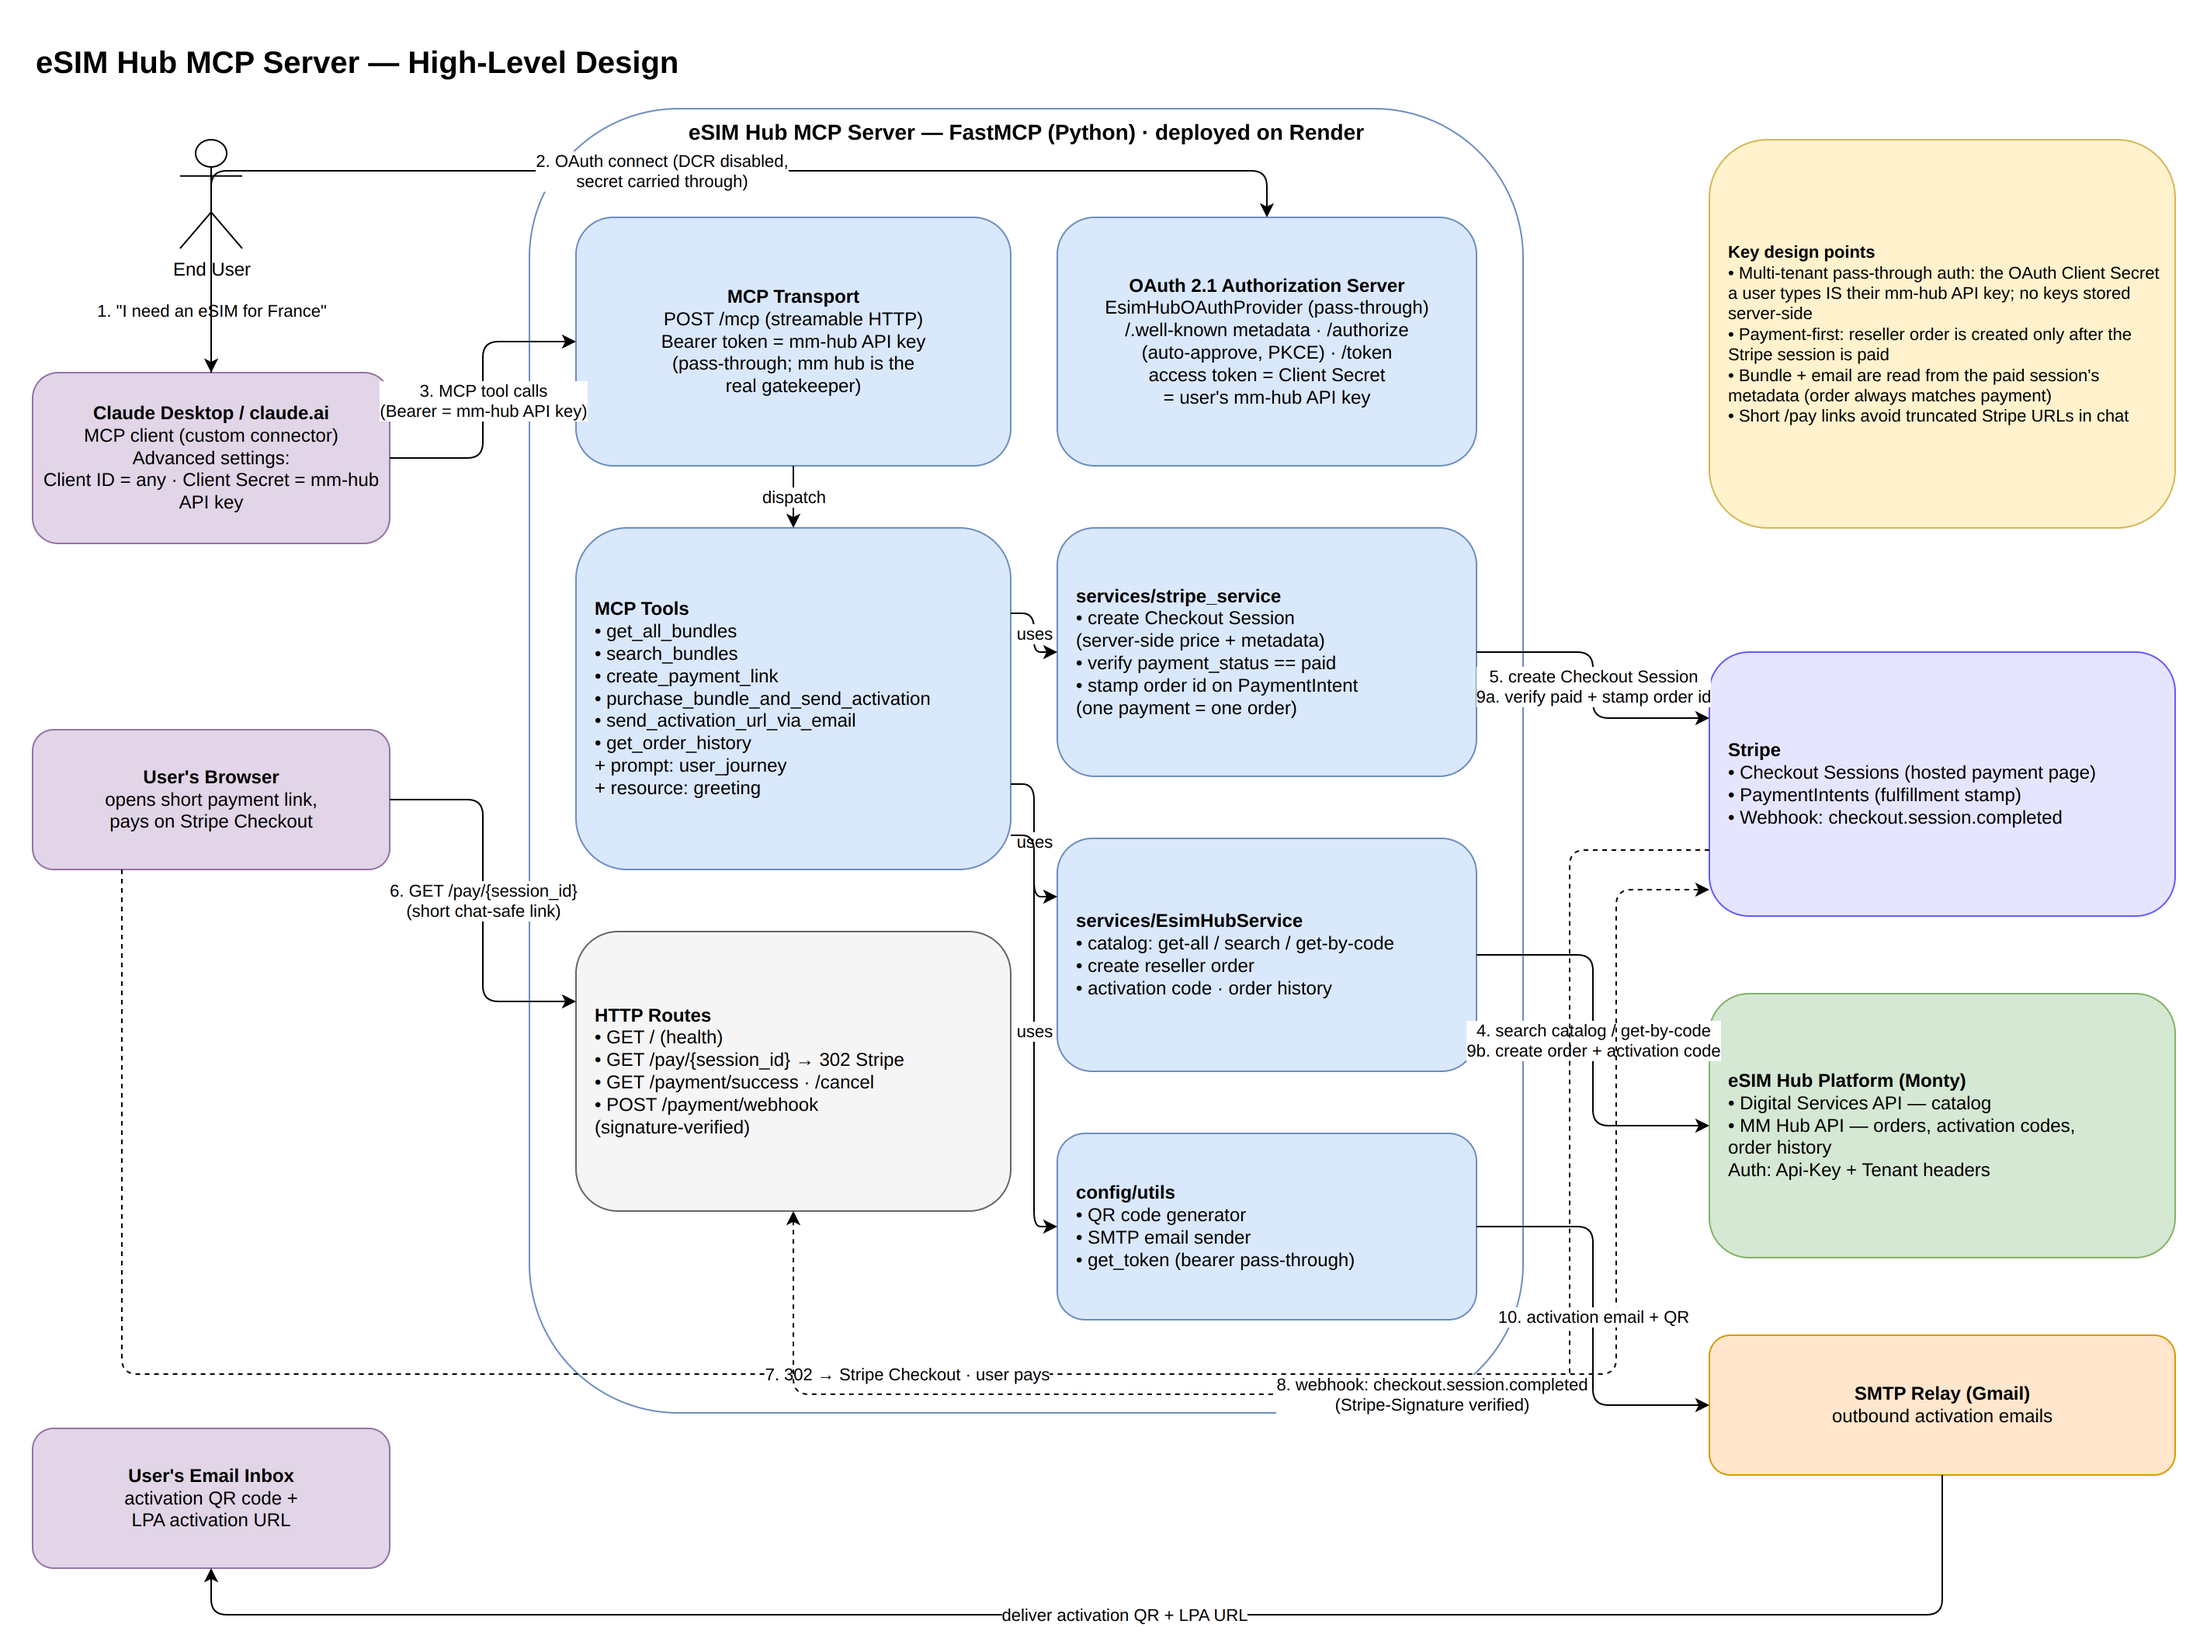
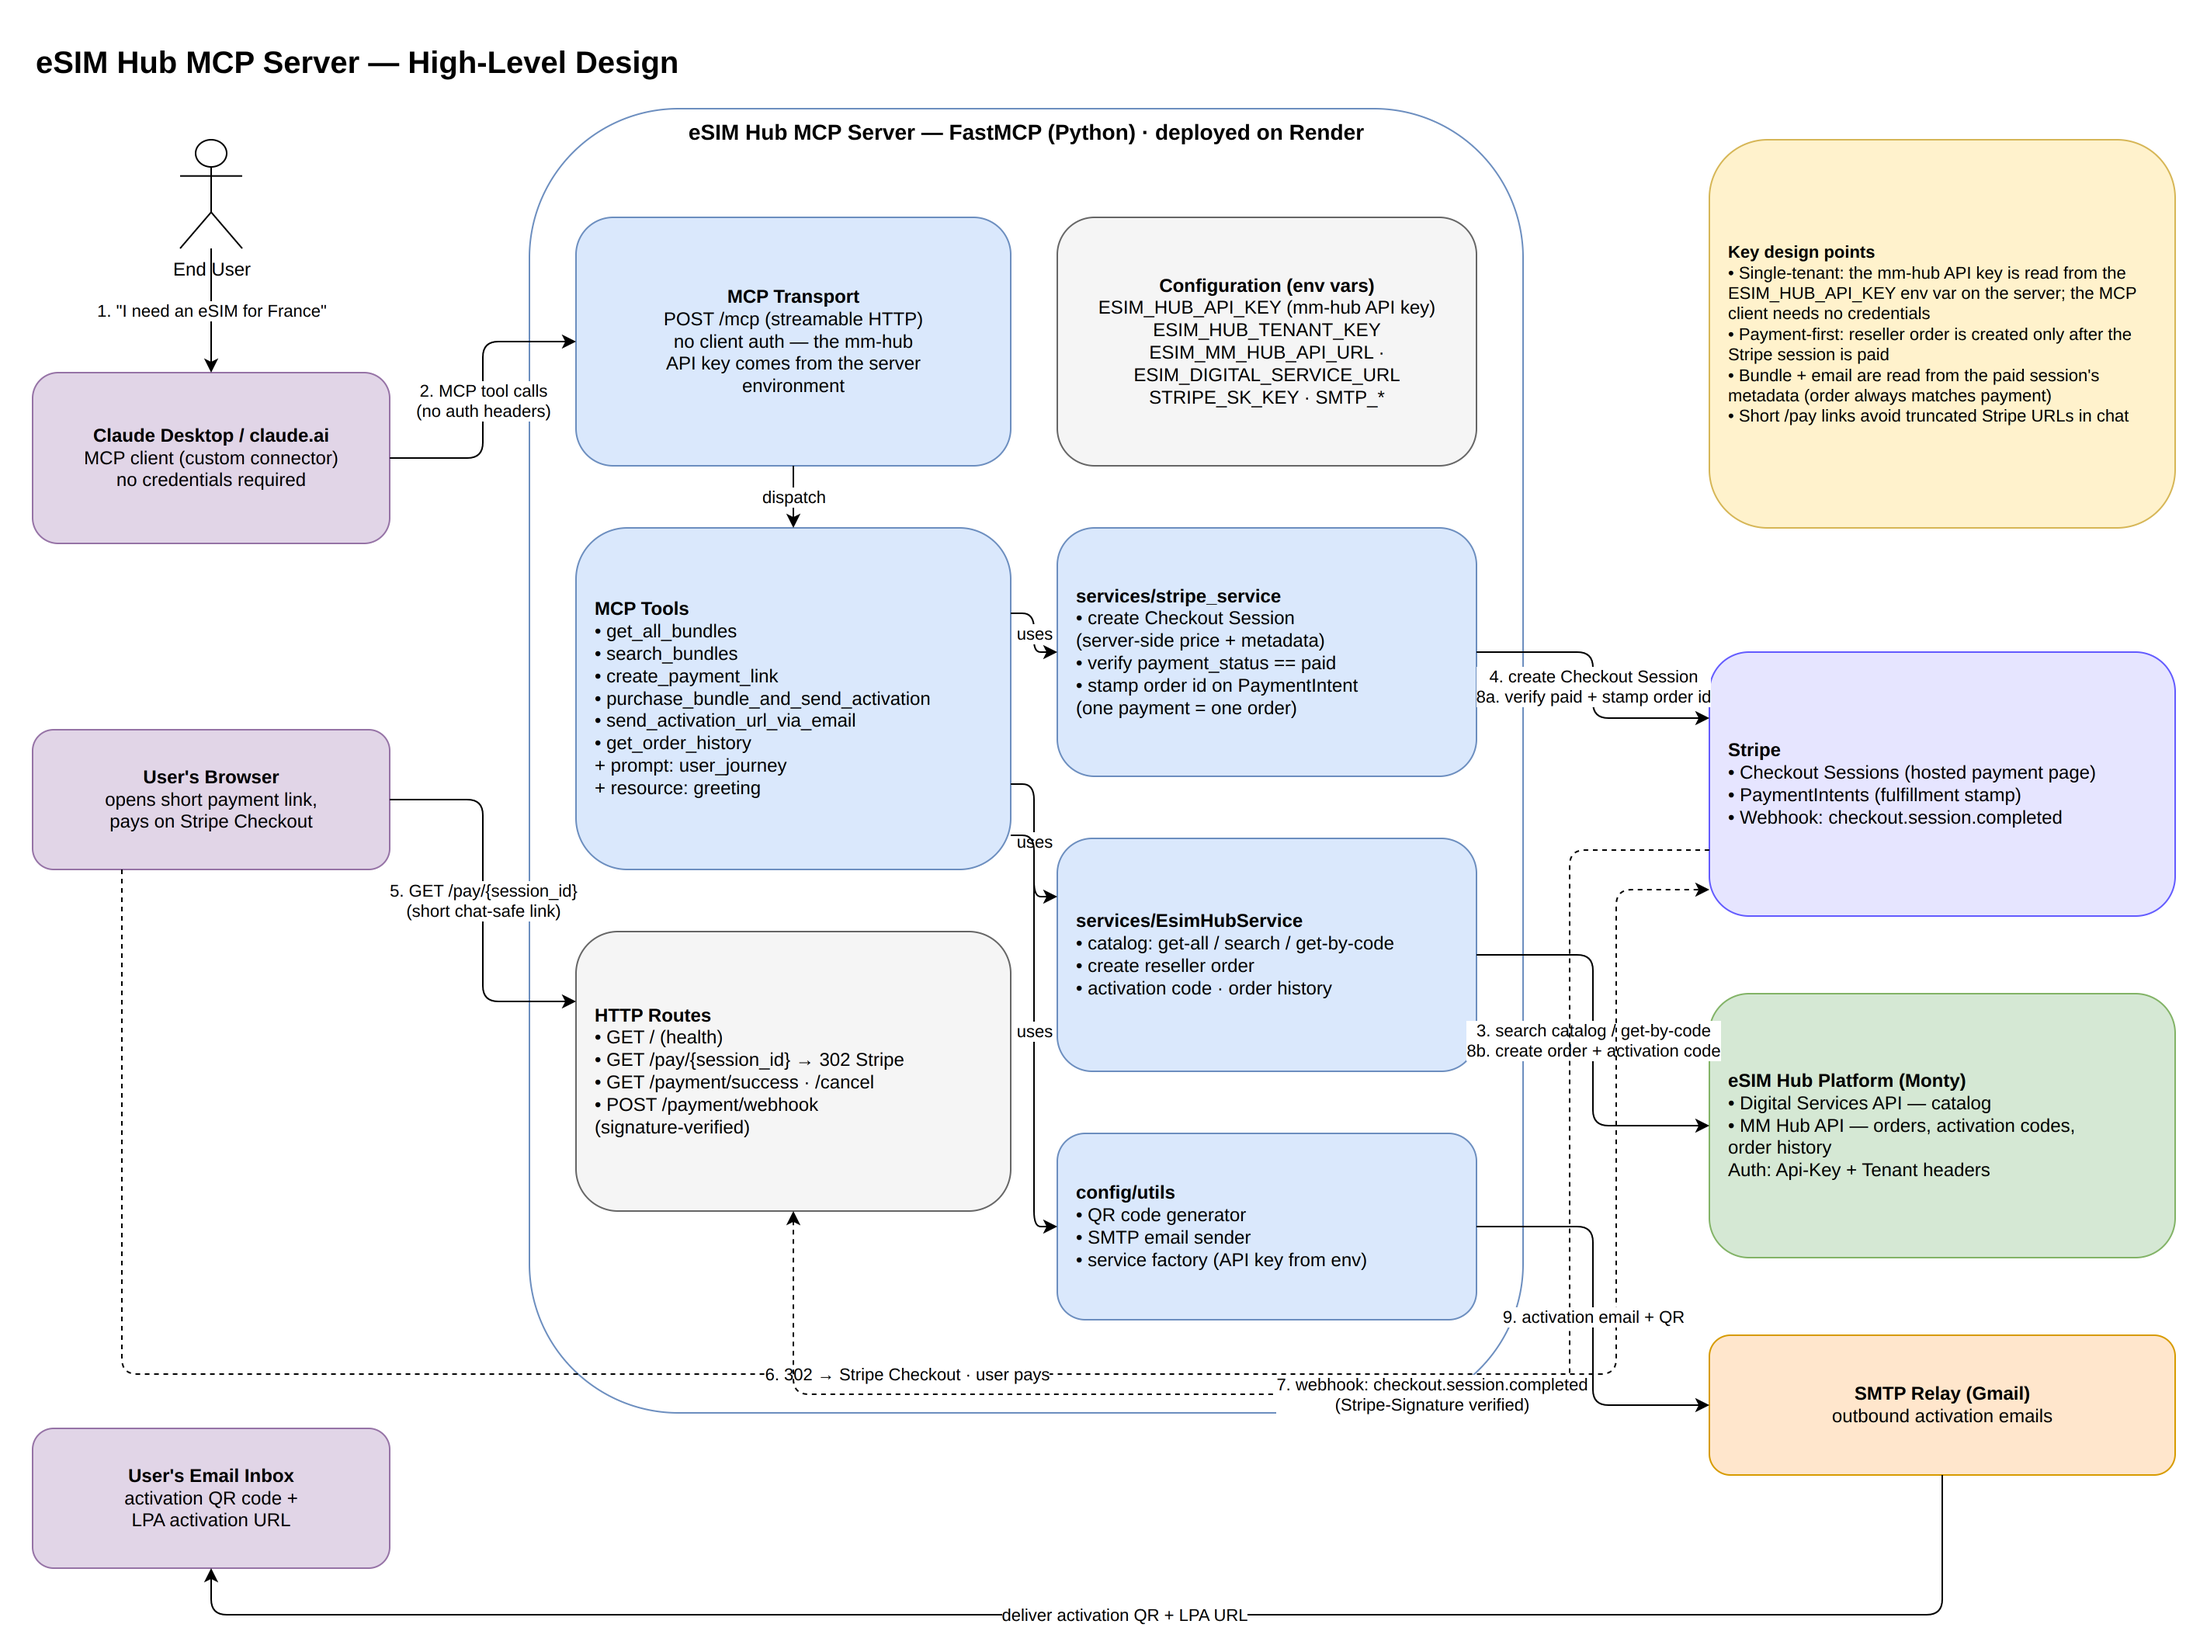
Remove OAuth; read the mm-hub API key from ESIM_HUB_API_KEY env var
The pass-through OAuth 2.1 authorization server is deleted and the MCP
server now accepts connections without client credentials. Tools no
longer extract a bearer token per request; esim_hub_service_instance()
reads ESIM_HUB_API_KEY from the environment instead. README, render.yaml,
and the architecture diagrams are updated to match.

Claude-Session: https://claude.ai/code/session_01ERXS55ZsWNngPJ7uEygwTk

diff --git a/main.py b/main.py
@@ -5,19 +5,15 @@ import concurrent.futures
 import os
 from typing import List
 
-from fastmcp import FastMCP, Context
+from fastmcp import FastMCP
 from loguru import logger
 from starlette.requests import Request
 from starlette.responses import HTMLResponse, JSONResponse, RedirectResponse
 
-from config.oauth_provider import EsimHubOAuthProvider
-from config.utils import send_email, generate_qr_code, get_token
+from config.utils import send_email, generate_qr_code
 from dto.bundle import Bundle
 from services import stripe_service
 
-# OAuth authorization server so Claude Desktop / claude.ai can connect as a
-# custom connector; the Client Secret the user enters is passed through as their
-# mm-hub API key (see config/oauth_provider.py)
 mcp = FastMCP(
     "Esim Hub Management API",
     instructions=(
@@ -29,7 +25,6 @@ mcp = FastMCP(
         "Typical flow: search bundles for the user's destination, create a Stripe payment link, "
         "and after the user pays, complete the purchase so the activation QR is emailed to them."
     ),
-    auth=EsimHubOAuthProvider(base_url=os.getenv("MCP_BASE_URL", "https://esim-hub-mcp.onrender.com")),
 )
 
 # Module-level executor (shared/static across imports/instances)
@@ -142,11 +137,10 @@ def get_greeting() -> str:
                 "not named a destination yet.",
     tags={"bundle", "esim", "esim hub", "travel", "roaming"}
 )
-async def get_all_bundles(ctx: Context) -> List[Bundle]:
+async def get_all_bundles() -> List[Bundle]:
     """Fetch all bundles from the Esim Hub."""
-    api_key = get_token(ctx=ctx)
     from config.utils import esim_hub_service_instance
-    service = esim_hub_service_instance(api_key=api_key)
+    service = esim_hub_service_instance()
     bundles = await service.get_all_bundles()
     # Ensure JSON-serializable return:
     # If Bundle is Pydantic v2:
@@ -161,12 +155,10 @@ async def get_all_bundles(ctx: Context) -> List[Bundle]:
                 "'internet for my Japan trip', 'roaming in Guam'.",
     tags={"bundle", "esim", "esim hub", "search", "travel", "roaming"}
 )
-async def search_bundles(ctx: Context, keyword: str = None) -> List[Bundle]:
+async def search_bundles(keyword: str = None) -> List[Bundle]:
     """Search for bundles matching the given keyword and optional filters."""
-    api_key = get_token(ctx=ctx)
-
     from config.utils import esim_hub_service_instance
-    service = esim_hub_service_instance(api_key=api_key)
+    service = esim_hub_service_instance()
     return await service.search_bundles(search_keyword=keyword, country_name=None, gprs_from=None,
                                         gprs_to=None, currency_code=None, validity=None)
 
@@ -177,10 +169,8 @@ async def search_bundles(ctx: Context, keyword: str = None) -> List[Bundle]:
                 "link before the bundle can be purchased with purchase_bundle_and_send_activation.",
     tags={"bundle", "esim", "payment", "stripe"}
 )
-async def create_payment_link(ctx: Context, bundle_code: str, user_email: str) -> dict:
+async def create_payment_link(bundle_code: str, user_email: str) -> dict:
     """Create a Stripe Checkout payment link for the given bundle, priced from the eSIM Hub."""
-    api_key = get_token(ctx=ctx)
-
     from config.utils import esim_hub_service_instance
     from email_validator import validate_email, EmailNotValidError
 
@@ -189,7 +179,7 @@ async def create_payment_link(ctx: Context, bundle_code: str, user_email: str) -
     except EmailNotValidError as e:
         return {"success": False, "error": f"Invalid email: {str(e)}"}
 
-    service = esim_hub_service_instance(api_key=api_key)
+    service = esim_hub_service_instance()
     bundle = await service.get_bundle_by_code(bundle_code)
     if not bundle:
         return {"success": False, "error": f"Bundle {bundle_code} not found."}
@@ -228,10 +218,8 @@ async def create_payment_link(ctx: Context, bundle_code: str, user_email: str) -
                 "create_payment_link, and the payment must already be completed by the user.",
     tags={"bundle", "esim", "purchase", "activation", "email"}
 )
-async def purchase_bundle_and_send_activation(ctx: Context, payment_session_id: str) -> dict:
+async def purchase_bundle_and_send_activation(payment_session_id: str) -> dict:
     """Verify the Stripe payment, then purchase the bundle, fetch the activation code, and email it."""
-    api_key = get_token(ctx=ctx)
-
     from config.utils import esim_hub_service_instance
 
     # 0) Verify the payment: the bundle and email come from the paid session's metadata,
@@ -255,7 +243,7 @@ async def purchase_bundle_and_send_activation(ctx: Context, payment_session_id: 
     if not bundle_code or not user_email:
         return {"success": False, "error": "Payment session is missing bundle/email metadata."}
 
-    service = esim_hub_service_instance(api_key=api_key)
+    service = esim_hub_service_instance()
 
     # 1) Create order
     order_result = await service.purchase_bundle(bundle_code, user_email)
@@ -376,12 +364,10 @@ async def send_activation_url_via_email(user_email: str, activation_url: str) ->
                 "previous eSIM purchases, past orders, or an order status.",
     tags={"esim", "order", "history"}
 )
-async def get_order_history(ctx: Context, user_email: str) -> List[dict]:
+async def get_order_history(user_email: str) -> List[dict]:
     """Get order history for a given user email."""
-    api_key = get_token(ctx=ctx)
-
     from config.utils import esim_hub_service_instance
-    service = esim_hub_service_instance(api_key=api_key)
+    service = esim_hub_service_instance()
     return await service.get_order_history(user_email)
 
 

diff --git a/config/utils.py b/config/utils.py
@@ -3,7 +3,6 @@ from io import BytesIO
 
 import qrcode
 from dotenv import load_dotenv
-from fastmcp import Context
 from loguru import logger
 
 from services.esim_hub_service import EsimHubService
@@ -21,11 +20,11 @@ USERNAME = os.getenv("SMTP_USERNAME", "<EMAIL>")
 PASSWORD = os.getenv("SMTP_PASSWORD", "<PASSWORD>")
 
 
-def esim_hub_service_instance(api_key: str) -> EsimHubService:
+def esim_hub_service_instance() -> EsimHubService:
     return EsimHubService(
         digital_service_url=os.getenv("ESIM_DIGITAL_SERVICE_URL"),
         mm_hub_url=os.getenv("ESIM_MM_HUB_API_URL"),
-        api_key=api_key,
+        api_key=os.getenv("ESIM_HUB_API_KEY"),
         tenant_key=os.getenv("ESIM_HUB_TENANT_KEY")
     )
 
@@ -106,8 +105,3 @@ def generate_qr_code(qr_data: str) -> BytesIO:
     qr.save(buffer, format="PNG")
     buffer.seek(0)
     return buffer
-
-
-def get_token(ctx: Context) -> str:
-    request = ctx.request_context.request
-    return request.headers.get("authorization", "").replace("Bearer ", "").replace("bearer ", "")

diff --git a/README.md b/README.md
@@ -10,9 +10,8 @@ This project implements an MCP server that exposes eSIM Hub functionality as too
 
 ### High-Level Design
 
-All components and how they connect — the Claude MCP client with OAuth pass-through auth, the
-FastMCP server internals (OAuth authorization server, tools, HTTP routes, services), and the
-external systems (Stripe, eSIM Hub platform, SMTP):
+All components and how they connect — the Claude MCP client, the FastMCP server internals
+(tools, HTTP routes, services), and the external systems (Stripe, eSIM Hub platform, SMTP):
 
 ![High-Level Design](docs/esim-hub-mcp-hld.png)
 
@@ -111,7 +110,7 @@ esim-hub-mcp/
 | `SMTP_PASSWORD` | SMTP password | Yes (for email) |
 | `SMTP_SENDER` | Sender email address | Recommended |
 | `SMTP_SENDER_NAME` | Sender display name | Recommended |
-| `MCP_BASE_URL` | Public URL of this server, used in OAuth metadata (defaults to the Render URL) | Recommended |
+| `MCP_BASE_URL` | Public URL of this server, used in Stripe payment redirect links (defaults to the Render URL) | Recommended |
 | `STRIPE_SK_KEY` | Stripe secret key used to create and verify Checkout payments | Yes |
 | `STRIPE_WEBHOOK_KEY` | Stripe webhook signing secret (`whsec_...`) for `POST /payment/webhook` | Yes (for webhooks) |
 
@@ -127,19 +126,13 @@ python main.py --server_type=http --port 8000
 
 ### Connecting Claude Desktop / claude.ai (Custom Connector)
 
-The server is an OAuth 2.1 authorization server (see `config/oauth_provider.py`) with
-pass-through, multi-tenant auth: **the OAuth Client Secret each user enters is their own
-mm-hub API key**. The flow auto-approves and issues that secret back as the access token,
-which the tools forward to the eSIM Hub on every call. The server does not validate the
-key itself — connecting always succeeds, and an invalid key fails later at the mm-hub call.
+The server does not require any authentication from the MCP client: the mm-hub API key is
+read from the `ESIM_HUB_API_KEY` environment variable on the server and used for all calls
+to the eSIM Hub.
 
 1. In Claude Desktop (or claude.ai): **Settings → Connectors → Add custom connector**
 2. URL: `https://esim-hub-mcp.onrender.com/mcp`
-3. Open **Advanced settings** and fill both fields (they are required — Dynamic Client
-   Registration is disabled):
-   - **Client ID**: any value (e.g. your name)
-   - **Client Secret**: your mm-hub API key
-4. Click **Connect** — a browser window authorizes and redirects back automatically.
+3. Click **Connect** — no OAuth or credentials are needed.
 
 The server will be available at:
 - **REST API**: http://localhost:8000
